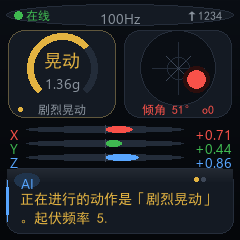
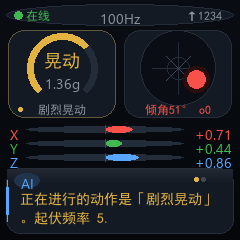
fix(device): 姿态球跟手（状态刷到 20Hz）+ 倾角只滤角度 + 倾角小字不再换行
用户拍屏幕照片反馈两条：① 球移动太慢、排版要调 ② 球是对的但倾角显示很斜。

**① 球太慢 —— 两处原因，我上一版只改对了一半：**

- `transport` 原来**只在 500ms 的上报周期**才更新 `s_st`（2Hz），姿态球 2Hz 一跳，
  本来就迟钝。现在每 5 个样本（20Hz）刷一次**给屏幕看的那几个值** ——
  上报仍是 500ms 一批，判定/落盘不受影响，纯粹是显示。
- 我上一版加的 α=0.25 低通**加错了地方**：它同时拖慢了姿态球。
  低通应该只作用在**对噪声敏感的那个数**上 ——
  `acos(|z|/|a|)` 在接近平放时 0.03g 就能算出 14°，而姿态球 `x*26px`
  同样的噪声只动不到 1px。所以现在**只对角度做低通**（α=0.4），x/y/z 全用原始值。

**② 倾角小字换行（"显示不全"）：** 标签是 `LV_LABEL_LONG_WRAP`（默认）+ 100px 宽，
而这个 CJK 字体里 **ASCII 是全角**的 ——「倾角 2° o4」≈108px 超宽 → 换行 →
第二行被 14px 的行高裁掉。三处一起改：去掉「倾角」与数字之间的空格（省 12px）、
标签宽度 100→108、并显式设 `LV_LABEL_LONG_CLIP`（宁可裁也不要换到看不见的第二行）。

`tools/ui_preview.py` 里镜像的那份文案同步跟上（T33 的教训：文案是镜像的，
不改就会"代码改了预览图还是旧的"）。

顺带：`transport.c` 这个提交里也带了 `oN` 上报与 `set_orient` 的固件侧改动，
供下一个提交的"网页校准"用（同一文件不好拆两个提交）。

Changed region(s): [[0.5833, 0.4375, 0.7875, 0.4958], [0.8167, 0.4375, 0.9042, 0.4958]]

diff --git a/device/main/ui.c b/device/main/ui.c
@@ -107,7 +107,7 @@ static const char *TAG = "ui";
 #define UI_ABS_H        14
 #define UI_ABS_Y        43                      /* 环心第二行（|a| 读数） */
 #define UI_PANEL_CAP_Y  72                      /* 面板底部小字 */
-#define UI_PANEL_CAP_W  100
+#define UI_PANEL_CAP_W  108
 #define UI_PANEL_CAP_H  14
 #define UI_CAP_DOT_D    5                       /* 细节行左侧语义色圆点 */
 #define UI_CAP_DOT_X    10
@@ -708,32 +708,16 @@ static void ui_timer_cb(lv_timer_t *timer)
     transport_status_t st;
     transport_get_status(&st);
 
-    /* ---------- 显示用的低通滤波 ----------
+    /* 姿态球/数值条**直接用原始值，不做低通** —— 要跟手。
      *
-     * 为什么必须滤：`transport` 每周期只把**最后一个样本**写进状态，
-     * 于是界面拿到的是瞬时值。而"倾角"是 `acos(|z|/|a|)` ——
-     * **在 |z| ≈ |a|（接近平放）附近这个函数对噪声极度敏感**：0.03g 的噪声
-     * 就能算出 14°，平放着的板子一会 0° 一会 13°，现场非常困惑。
-     *
-     * 同一个噪声对姿态球几乎没影响（`bx = x * 26px`，0.03g 只让球动不到 1px），
-     * 所以会出现"球稳稳居中、倾角数字乱跳"这种自相矛盾的画面 ——
-     * 2026-09-23 用户拍到并反馈的就是这个。
-     *
-     * 对**显示值**做一阶低通（只影响界面，上报和判定仍用原始值）。 */
-    static float s_disp[3] = {0.0f, 0.0f, 0.0f};
-    static bool s_disp_primed = false;
-    if (!s_disp_primed) {
-        s_disp[0] = st.x_g;
-        s_disp[1] = st.y_g;
-        s_disp[2] = st.z_g;
-        s_disp_primed = true;
-    } else {
-        const float a = 0.25f;
-        s_disp[0] += a * (st.x_g - s_disp[0]);
-        s_disp[1] += a * (st.y_g - s_disp[1]);
-        s_disp[2] += a * (st.z_g - s_disp[2]);
-    }
-    const float dx = s_disp[0], dy = s_disp[1], dz = s_disp[2];
+     * 上一版在这里加了 α=0.25 的一阶低通去压"倾角乱跳"，结果把球也拖慢了
+     * （用户 2026-09-23 反馈"球移动速度太慢"）。低通加错了地方：
+     *  - 姿态球对噪声本来就不敏感（`bx = x * 26px`，0.03g 只动不到 1px），
+     *    它需要的是**快**；
+     *  - 真正对噪声敏感的是 `acos(|z|/|a|)` —— 在接近平放时 0.03g 就能算出 14°。
+     *    所以**只对角度那一个数**做低通（见下面 s_deg 那段），别碰 x/y/z。
+     * 另外 `transport` 现在以 20Hz 刷新状态（原来只有 500ms 一次），球本身就顺了。 */
+    const float dx = st.x_g, dy = st.y_g, dz = st.z_g;
 
     char buf[80];
     bool wifi_up = wifi_link_is_up();
@@ -895,17 +879,33 @@ static void ui_timer_cb(lv_timer_t *timer)
     }
     const bool show_ori = (lv_tick_get() - s_ori_at) < 5000;
 
+    /* 只对**角度**做低通：`acos(|z|/|a|)` 在接近平放时对噪声极敏感
+     * （0.03g → 14°），不滤的话数字乱跳；但滤 x/y/z 会把姿态球拖慢（上一版的错）。
+     * 滤角度本身只影响这一个数字，姿态球完全不受影响。 */
+    static float s_deg = 0.0f;
+    static bool s_deg_primed = false;
     if (mag < 0.05f) {
         snprintf(buf, sizeof(buf), show_ori ? "无读数 o%d" : "无读数", ori);
     } else if (mag < 0.35f) {
+        s_deg_primed = false;          /* 失重后重新起滤，别拿旧值 */
         snprintf(buf, sizeof(buf), show_ori ? "失重 o%d" : "失重", ori);
     } else {
         float c = fabsf(dz) / mag;
         if (c > 1.0f) {
             c = 1.0f;
         }
-        int deg = (int)(acosf(c) * 57.29578f + 0.5f);
-        snprintf(buf, sizeof(buf), show_ori ? "倾角 %d° o%d" : "倾角 %d°", deg, ori);
+        const float raw_deg = acosf(c) * 57.29578f;
+        if (!s_deg_primed) {
+            s_deg = raw_deg;
+            s_deg_primed = true;
+        } else {
+            s_deg += 0.4f * (raw_deg - s_deg);
+        }
+        int deg = (int)(s_deg + 0.5f);
+        /* 去掉「倾角」和数字之间的空格：这个 CJK 字体里 ASCII 是**全角**的，
+         * 一个空格就是 12px —— 带上它会顶破 100px 的标签宽度而**换行**，
+         * 第二行又被 14px 的行高裁掉（用户拍到的"显示不全"就是这个）。 */
+        snprintf(buf, sizeof(buf), show_ori ? "倾角%d° o%d" : "倾角%d°", deg, ori);
     }
     lv_label_set_text(s_lbl_tilt, buf);
 
@@ -1091,7 +1091,11 @@ static void build_tilt_panel(lv_obj_t *scr)
     s_lbl_tilt = make_label(p, (UI_PANEL_W - UI_PANEL_CAP_W) / 2, UI_PANEL_CAP_Y,
                             UI_PANEL_CAP_W, UI_PANEL_CAP_H, cjk_font(12), UI_C_DIM,
                             LV_TEXT_ALIGN_CENTER);
-    lv_label_set_text(s_lbl_tilt, "倾角 —");
+    /* **必须禁止换行**：标签默认是 LV_LABEL_LONG_WRAP，而这里的行高只有 14px ——
+     * 文字一超宽就换到第二行，而第二行被高度裁掉，看起来就是"显示不全"。
+     * 宁可裁（CLIP）也不要换行。 */
+    lv_label_set_long_mode(s_lbl_tilt, LV_LABEL_LONG_CLIP);
+    lv_label_set_text(s_lbl_tilt, "倾角—");
 }
 
 static void build_axis_rows(lv_obj_t *scr)

diff --git a/device/main/transport.c b/device/main/transport.c
@@ -141,6 +141,7 @@ typedef enum {
     CMD_CAPTURE,        /* capture_once —— 累积样本做一次测量 */
     CMD_LED_BLINK,      /* led_blink    —— 闪 n 次（远端物理反馈） */
     CMD_LED_SET,        /* led_set      —— 常亮/熄灭 */
+    CMD_SET_ORIENT,     /* set_orient   —— 远程设置方向档位（与长按 BOOT 等价） */
 } cmd_kind_t;
 
 /* led_blink 的可选 pattern 参数：让服务端能表达"这是告警/确认/错误"的语义，
@@ -295,6 +296,32 @@ static void run_command(cmd_kind_t kind, const char *id,
         finish_command(true, false, NULL);
         break;
 
+    case CMD_SET_ORIENT: {
+        /* 与长按 BOOT 完全等价：改方向档位并写 NVS。
+         * 网页上直接点选档位，比"长按盲按 N 次"靠谱得多 ——
+         * 2026-09-23 真机标定时用户就是靠长按一次次试出来的。 */
+        int o = n;
+        if (o < 0) {
+            o = 0;
+        }
+        if (o > 15) {
+            o = 15;
+        }
+        accel_input_set_orientation(o);
+        utf8_strlcpy(s_cmd.id, id, sizeof(s_cmd.id));
+        s_cmd.running = true;
+        s_cmd.state = TRANSPORT_CMD_RUNNING;
+        s_cmd.started = xTaskGetTickCount();
+        s_cmd.n = 0;
+        led_feedback_play(LED_FB_ACK);
+        status_lock();
+        s_st.cmd_count++;
+        status_unlock();
+        ESP_LOGI(TAG, "cmd %s: set_orient -> %d", s_cmd.id, o);
+        finish_command(true, false, NULL);
+        break;
+    }
+
     case CMD_LED_SET:
         utf8_strlcpy(s_cmd.id, id, sizeof(s_cmd.id));
         s_cmd.running = true;
@@ -420,7 +447,9 @@ static char *build_body(int n, bool ask, const char *source)
         free(buf);
         return NULL;
     }
-    off += snprintf(buf + off, cap - (size_t)off, "\",\"batch\":[");
+    /* 带上方向档位：网页要靠它显示"板子现在是哪一档"，并让"改档位"有反馈闭环。 */
+    off += snprintf(buf + off, cap - (size_t)off, "\",\"o\":%d,\"batch\":[",
+                    accel_input_get_orientation());
     for (int i = 0; i < n; ++i) {
         if ((size_t)off + 48 > cap) {
             free(buf);
@@ -554,6 +583,10 @@ static void apply_response(const char *body, size_t len)
                     } else if (strcmp(jname->valuestring, "led_set") == 0) {
                         kind = CMD_LED_SET;
                         p_onf = json_bool(jparams, "on", true);
+                    } else if (strcmp(jname->valuestring, "set_orient") == 0) {
+                        /* 方向档位远程设置。参数复用 p_n —— 这条指令不需要样本数。 */
+                        kind = CMD_SET_ORIENT;
+                        p_n = json_int(jparams, "o", 0);
                     }
                     if (kind != CMD_NONE) {
                         utf8_strlcpy(cmd_id, jid->valuestring, sizeof(cmd_id));
@@ -745,6 +778,20 @@ static void transport_task(void *arg)
                     s_batch[n][1] = xyz[1];
                     s_batch[n][2] = xyz[2];
                     n++;
+                }
+
+                /* 界面要"跟手"：`s_st` 原来**只在 500ms 的上报周期**才更新一次
+                 * （2Hz），姿态球 2Hz 一跳，看着就是"迟钝"。
+                 * 这里每 5 个样本（20Hz）把**给屏幕看的那几个值**刷一遍 ——
+                 * 上报本身仍是 500ms 一批，判定/落盘也不受影响，纯粹是显示。
+                 * 取 20Hz 而不是 100Hz：锁的临界区很短，但没必要每样本都抢一次。 */
+                if ((n % 5) == 0) {
+                    status_lock();
+                    s_st.x_g = xyz[0];
+                    s_st.y_g = xyz[1];
+                    s_st.z_g = xyz[2];
+                    strlcpy(s_st.source, last_source, sizeof(s_st.source));
+                    status_unlock();
                 }
                 /* 正在执行远程指令就用同一个采样节拍累积，不额外阻塞 */
                 feed_capture(xyz);

diff --git a/tools/ui_preview.py b/tools/ui_preview.py
@@ -407,7 +407,7 @@ class Renderer:
             tilt = "失重 o%d" % ori
         else:
             import math
-            tilt = "倾角 %d° o%d" % (
+            tilt = "倾角%d° o%d" % (
                 round(math.degrees(math.acos(min(1.0, abs(st["z"]) / st["mag"])))), ori)
         # 倾角文字跟随球的语义色（与板端 s_lbl_tilt 同步）
         tilt_c = (C["FAINT"] if ball_c == C["FAINT"] else
